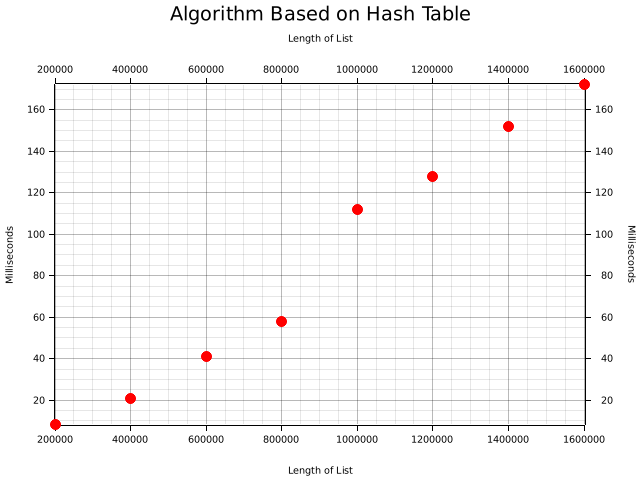
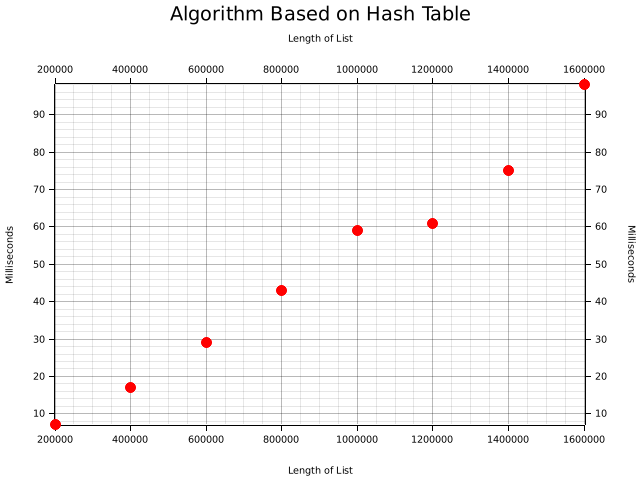
completed readme

Changed region(s): [[0.0312, 0.2188, 0.9688, 0.9062], [0.0938, 0.1562, 0.9062, 0.1875]]

diff --git a/src/main.rs b/src/main.rs
@@ -52,7 +52,7 @@ fn main() {
 
 fn get_min_not_in_list_via_sort(vals: &Vec<u32>) -> u32 {
     let mut sorted = vals.clone();
-    sorted.sort_unstable();
+    sorted.sort();
     if sorted.is_empty() || sorted[0] > 0 {
         0
     } else {

diff --git a/README.md b/README.md
@@ -13,11 +13,41 @@ Examples:
  * [20, 10, 30] -> 0
 
 Challenges:
- * Find a solution that runs in linear time.
  * Use functional programming techniques.
+ * Find a solution that runs in linear time.
  * Measure computation time to confirm whether it is linear time.
 
+## Functional Programming
+I could not devise any sensible implementation of a linear time solution in the functional
+programming style, therefore to use functional programming:
+* Sort the list.
+* If the list starts with a number bigger than zero or is empty:
+  * Answer is 0.
+* Otherwise:
+  * Compare each number with the next number to see if they are consecutive (differ by 1).
+  * Find the first number that is non-consecutive.
+  * Add one to that number to get the answer.
+
+```rust
+fn get_min_not_in_list_via_sort(vals: &Vec<u32>) -> u32 {
+    let mut sorted = vals.clone();
+    sorted.sort();
+    if sorted.is_empty() || sorted[0] > 0 {
+        0
+    } else {
+        (0..sorted.len())
+            .skip_while(|i| i + 1 < sorted.len() && sorted[i + 1] - sorted[*i] <= 1)
+            .next()
+            .map(|i| sorted[i] + 1)
+            .unwrap()
+    }
+}
+```
+
 ## Linear Time Solution
+I did not find any sensible functional programming solution so instead the linear
+time solution uses imperative programming.
+
 Find groups of consecutive numbers, so in the example [0, 1, 2, 3, 5]
 there are consecutive numbers from 0-3 and 5.
 
@@ -27,7 +57,11 @@ the lower bound and upper bound of the current consecutive range.
 In each iteration, the two adjacent numbers need to be checked, and
 relevant lower and upper bounds need to be updated.
 
-For example, iterating through the list in this order [3, 1, 2, 0, 5]:
+In the below example, the notation used is as follows for the contents
+of the HashMap:
+* key -> (lower_bound, upper_bound)
+
+Thus, iterating through the list in this order [3, 1, 2, 0, 5]:
 * Insert 3
   * 3 -> (3,3)
 * Insert 1
@@ -49,6 +83,88 @@ For example, iterating through the list in this order [3, 1, 2, 0, 5]:
   * 3 -> (0,3)
   * 5 -> (5,5)
 
+```rust
+fn get_min_not_in_list_via_hash(vals: &Vec<u32>) -> u32 {
+    let mut curr_min: u32 = u32::MAX;
+    let mut consecutives: HashMap<u32, RangeDef> = HashMap::with_capacity(vals.len());
+    for val in vals {
+        if curr_min > *val {
+            curr_min = *val;
+        }
+        if !consecutives.contains_key(&val) {
+            let u_bound = match consecutives.get(&(val + 1)) {
+                Some(range_def) => match range_def {
+                    MidRange => *val,
+                    EdgeVal(r) => r.high,
+                },
+                None => *val,
+            };
+
+            let l_bound = if *val == 0 {
+                0
+            } else {
+                match consecutives.get(&(val - 1)) {
+                    Some(range_def) => match range_def {
+                        MidRange => *val,
+                        EdgeVal(r) => r.low,
+                    },
+                    None => *val,
+                }
+            };
+
+            consecutives.insert(u_bound, EdgeVal(RangeInclusive::new(l_bound, u_bound)));
+            consecutives.insert(l_bound, EdgeVal(RangeInclusive::new(l_bound, u_bound)));
+
+            if val + 1 < u_bound {
+                consecutives.insert(val + 1, MidRange);
+            }
+
+            if *val > 0 && val - 1 > l_bound {
+                consecutives.insert(val - 1, MidRange);
+            }
+
+            if *val > l_bound && *val < u_bound {
+                consecutives.insert(*val, MidRange);
+            }
+        }
+    }
+
+    if curr_min > 0 {
+        0
+    } else {
+        match &consecutives[&0] {
+            MidRange => panic!("Zero cannot be midrange in consecutive numbers"),
+            EdgeVal(r) => r.high + 1,
+        }
+    }
+}
+```
+
 Problems:
 * Memory allocation - If using hashmap need to allocate memory larger than size of original list.
-* Seems to be much slower than just sorting the list.
+* Seems to be slower compared to simply sorting the list.
+
+
+## Computation Time
+### Console Output
+```text
+time target/release/puzzle-min-unused
+[ComputeTime { size: 200000, duration: 7.742453ms }, ComputeTime { size: 400000, duration: 16.102214ms }, ComputeTime { size: 600000, duration: 24.392358ms }, ComputeTime { size: 800000, duration: 33.475401ms }, ComputeTime { size: 1000000, duration: 43.287631ms }, ComputeTime { size: 1200000, duration: 50.619033ms }, ComputeTime { size: 1400000, duration: 62.124688ms }, ComputeTime { size: 1600000, duration: 69.358272ms }]
+
+[ComputeTime { size: 200000, duration: 7.658816ms }, ComputeTime { size: 400000, duration: 17.115468ms }, ComputeTime { size: 600000, duration: 29.714433ms }, ComputeTime { size: 800000, duration: 43.270202ms }, ComputeTime { size: 1000000, duration: 59.531474ms }, ComputeTime { size: 1200000, duration: 61.298695ms }, ComputeTime { size: 1400000, duration: 75.804416ms }, ComputeTime { size: 1600000, duration: 98.635212ms }]
+Result has been saved to images/chart_01_via_sort.png
+Result has been saved to images/chart_02_via_hash.png
+
+real    0m0.729s
+user    0m0.698s
+sys     0m0.030s
+```
+
+### Charts
+![Speed of hash](images/chart_02_via_hash.png) ![Speed of sort](images/chart_01_via_sort.png)
+
+## General Notes
+* The supposedly linear time hash map approach is slower than sorting.
+* In Rust the "release" profile is much faster than the "debug" profile.
+* The Hash approach seems to have a lot of variation in speed.
+* Source code is in the src folder. A lot of the code is related to plotting the charts.
